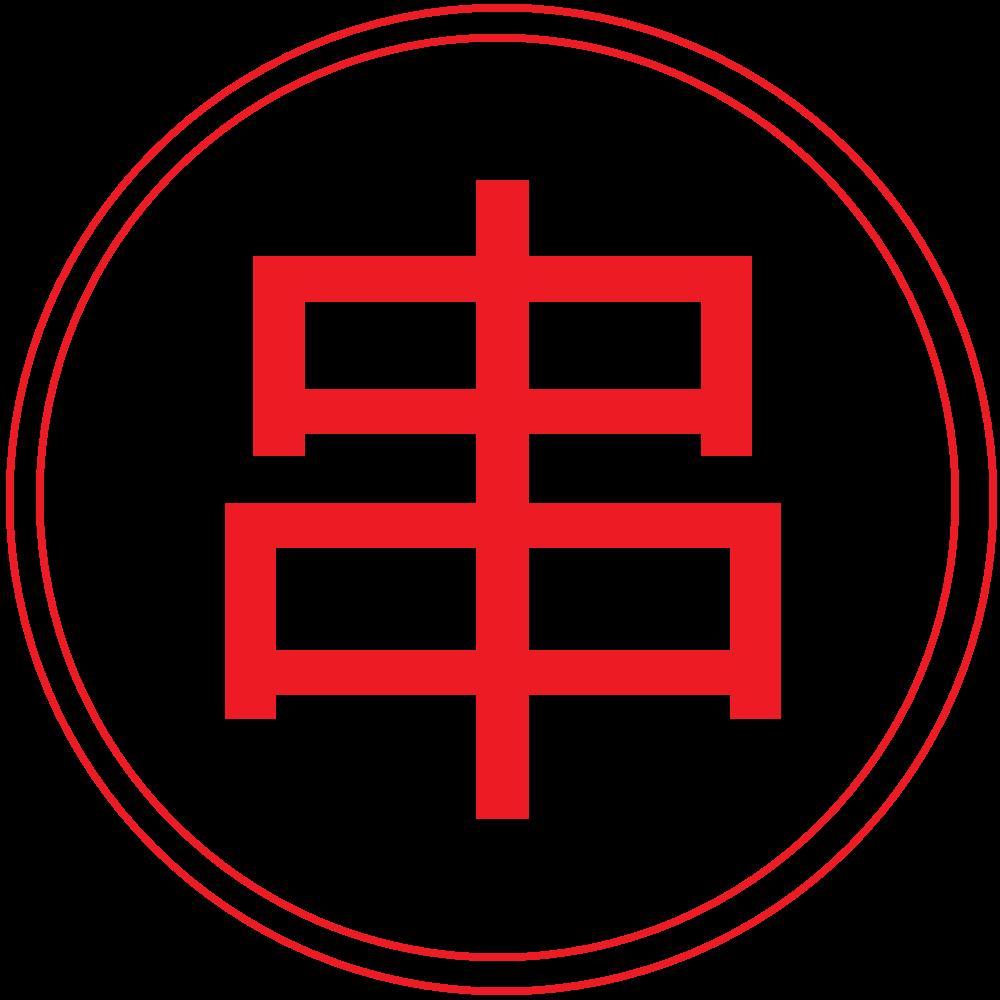
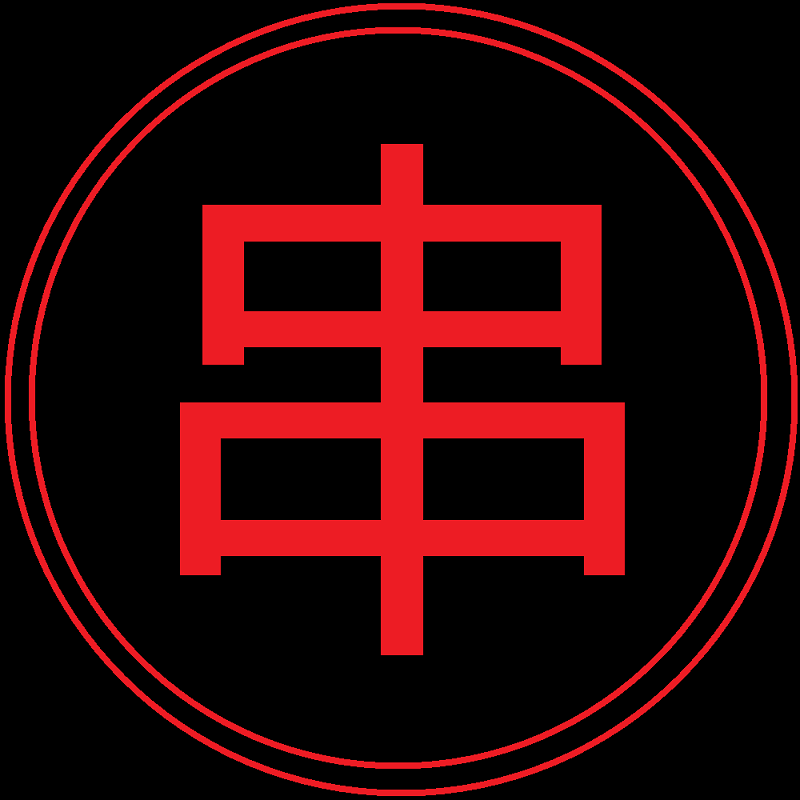
starting to add CSS and boostrap

diff --git a/public/assets/css/style.css b/public/assets/css/style.css
@@ -1,3 +1,12 @@
+body {
+  background-color: black;
+  background-image: url(chuarbig.png);
+  background-size: fit;                     
+  background-repeat: no-repeat;
+  background-position: center center;
+}
+
+
 
 
 
